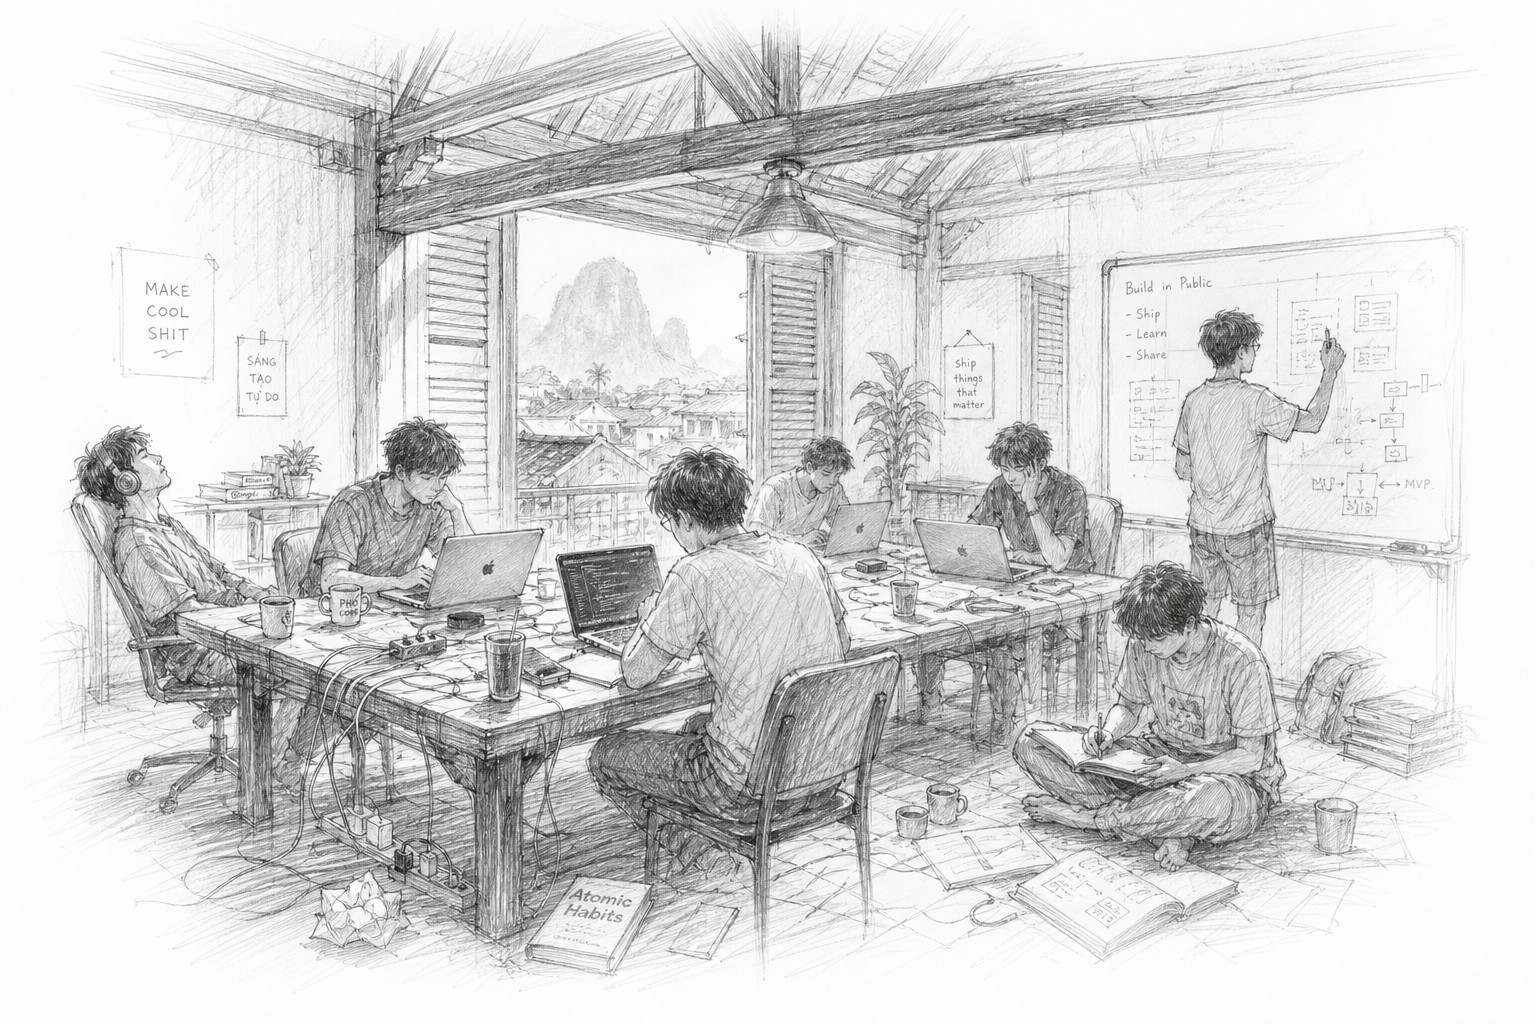
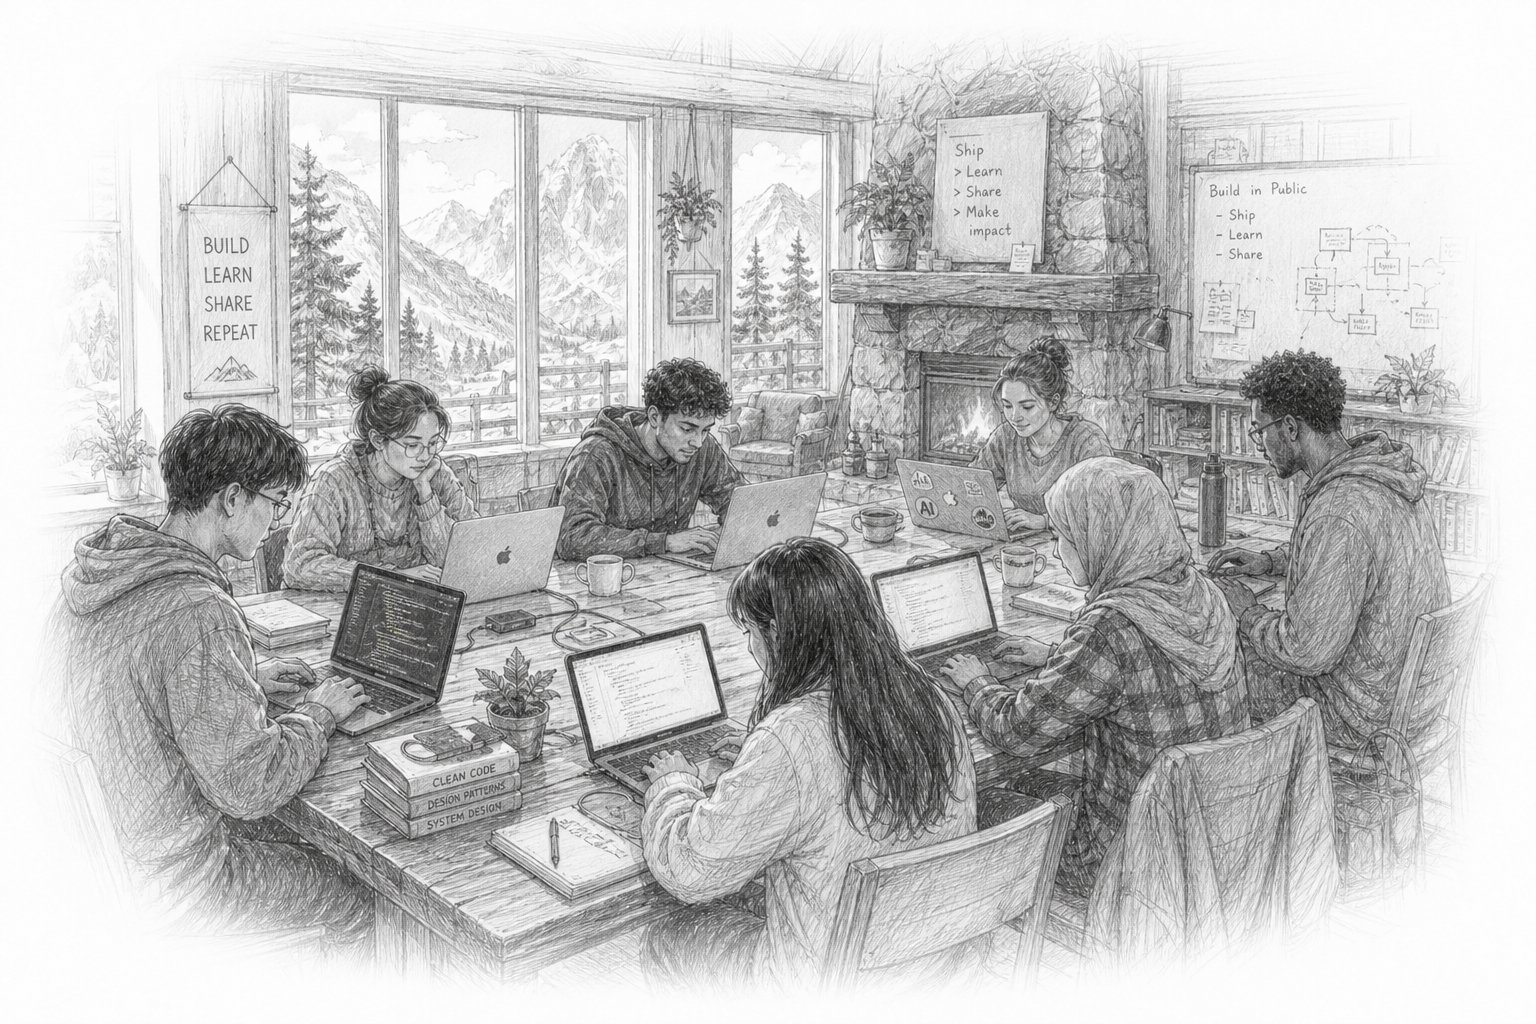
Update sketch image and adjust styling in WhoItsForSection component
- Replaced the existing sketch image with a new version in the WhoItsForSection component.
- Modified the figure element by removing the border and shadow styles for a cleaner look.
- Updated the image class to include mix-blend-multiply for enhanced visual effects.

diff --git a/src/components/hacker-house/WhoItsForSection.tsx b/src/components/hacker-house/WhoItsForSection.tsx
@@ -50,11 +50,11 @@ export function WhoItsForSection() {
             </h2>
           </div>
           <div className="grid grid-cols-1 md:grid-cols-2 gap-8 max-w-4xl mx-auto">
-            <figure className="hh-row relative aspect-[4/3] overflow-hidden rounded-lg border bg-white shadow-sm">
+            <figure className="hh-row relative aspect-[4/3] overflow-hidden">
               <img
                 src="/images/sketches/sketch-1.jpg"
                 alt="Sketch of builders collaborating"
-                className="object-cover w-full h-full"
+                className="object-cover w-full h-full mix-blend-multiply"
               />
             </figure>
             <div className="hh-row flex flex-col justify-center">